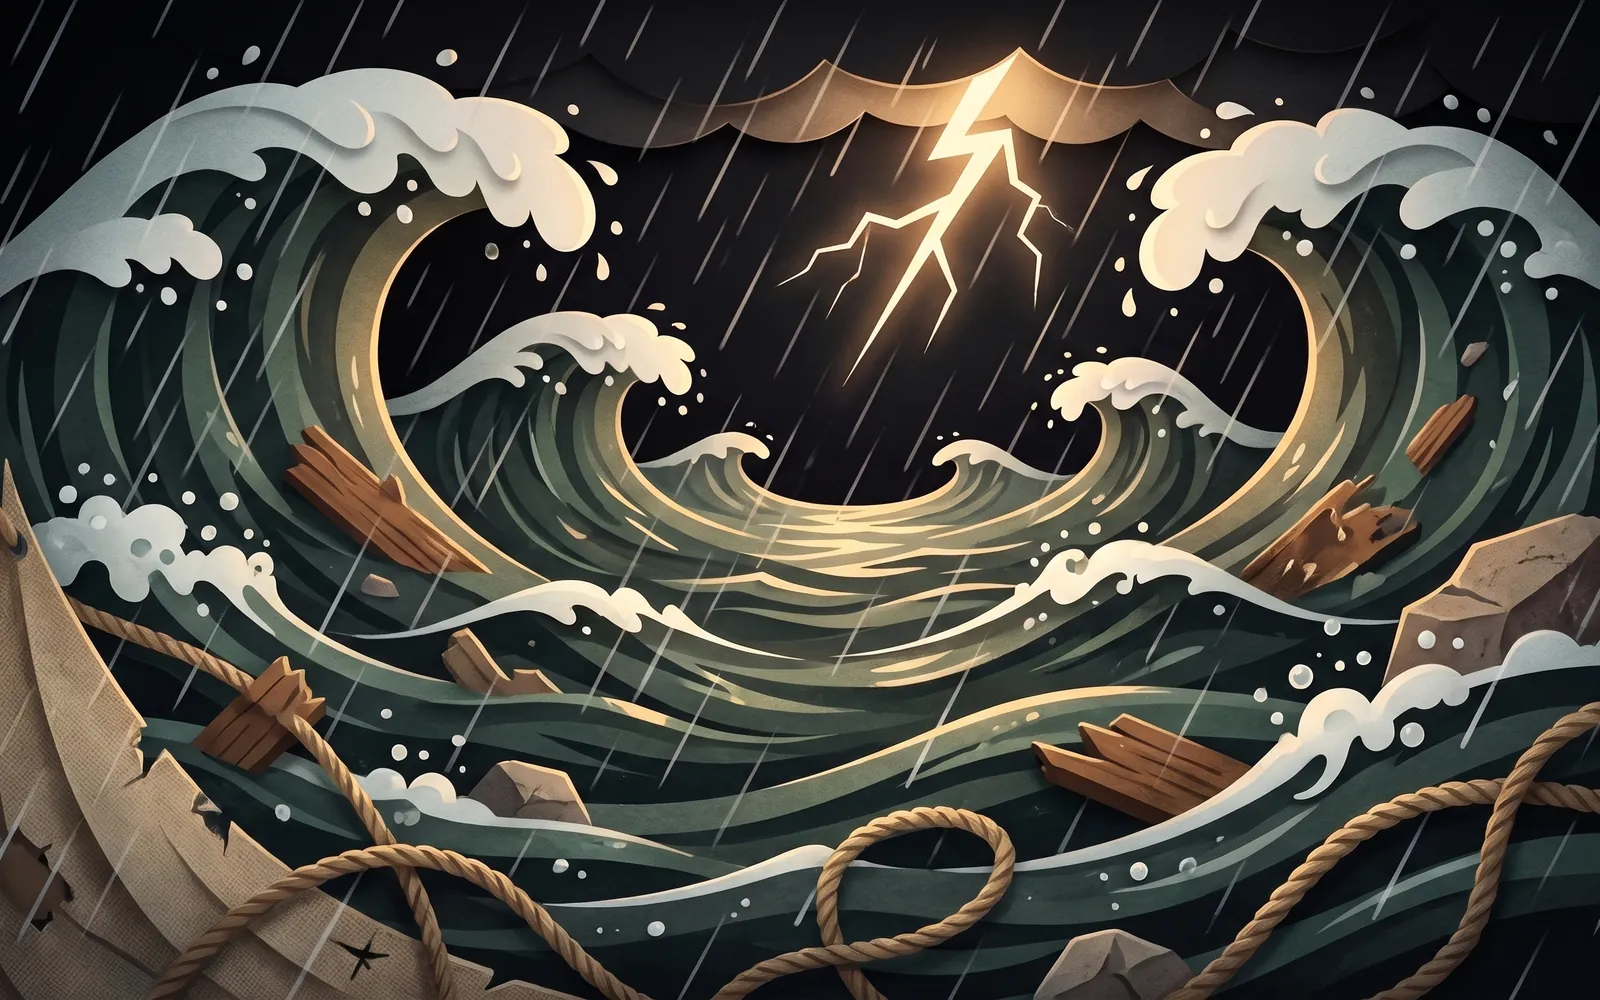
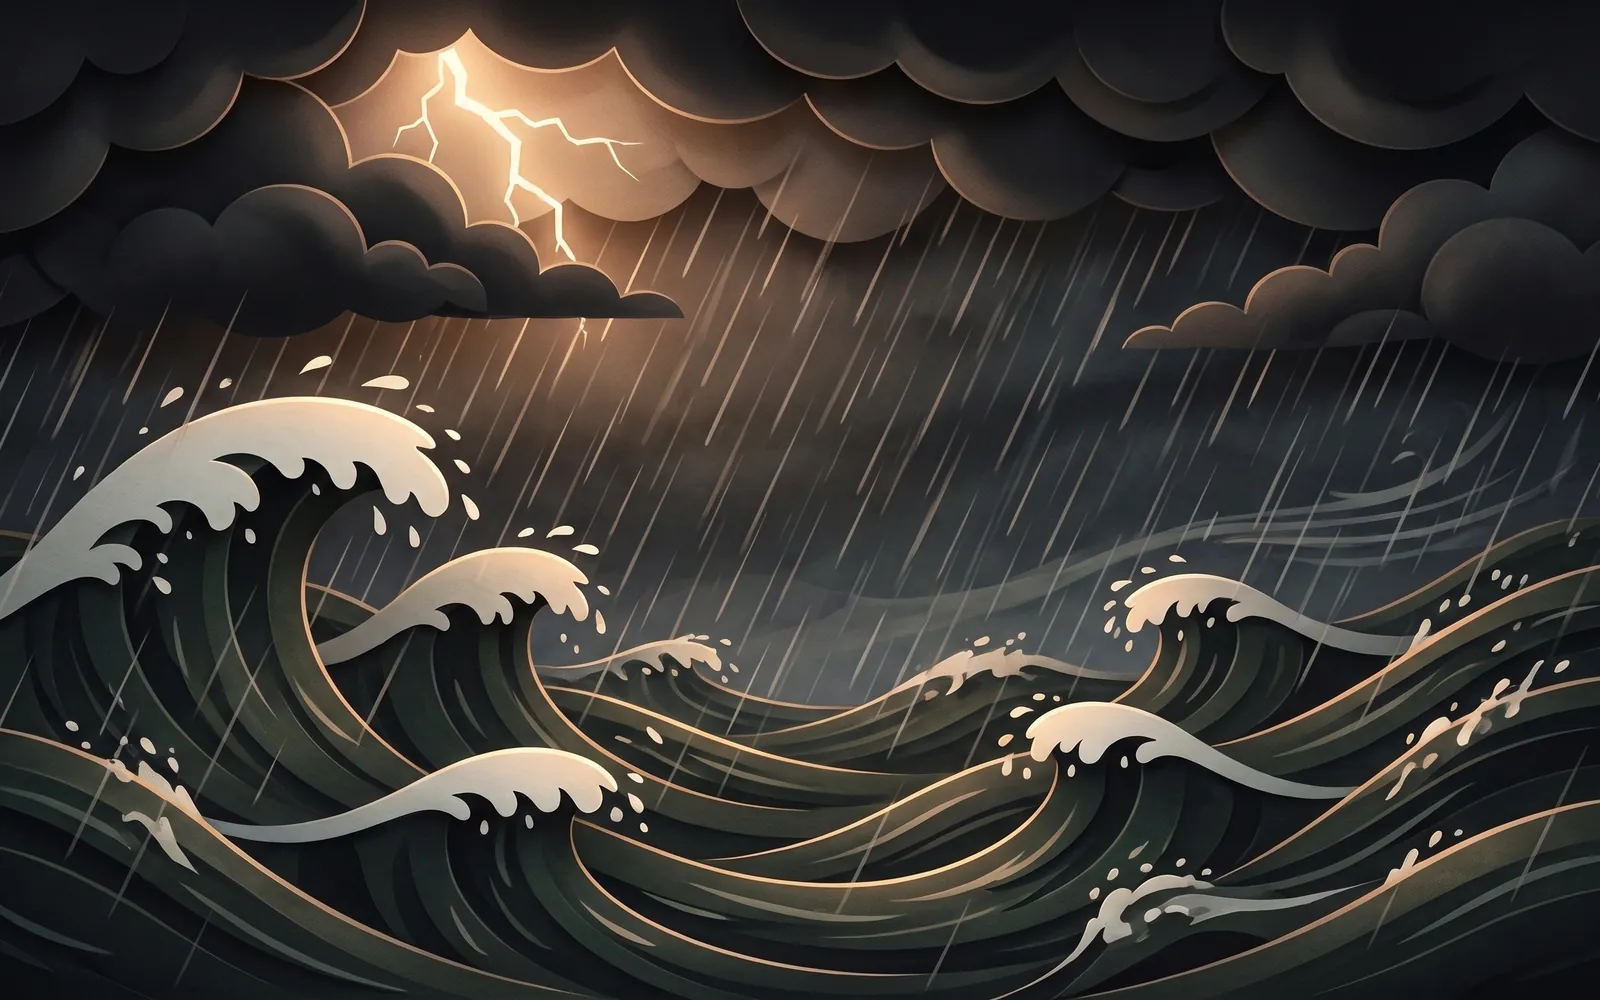
Storm page 3: one whole boat pitched on the wave, Jesus inside the hull, background without debris
The wild-night page drew its boat from two separately generated tilted
halves whose mast, bow and rail never lined up, with Jesus past the
stern. It now rotates the same whole two-part boat the other pages use
inside a positioning group, with the heave, rock and shake classes on
inner groups, and seats Jesus inside the hull. The background is
regenerated with only water, rain, cloud and lightning. Tilt cutouts
removed from the manifest and assets; face hotspots retuned.

diff --git a/src/scenes/storm.tsx b/src/scenes/storm.tsx
@@ -18,8 +18,8 @@ import asleepPeter from "../assets/scenes/storm/asleep/peter-row.webp";
 import asleepJohn from "../assets/scenes/storm/asleep/john-bail.webp";
 import afraidLayers from "../assets/scenes/storm/afraid/layers.json";
 import afraidBg from "../assets/scenes/storm/afraid/bg.webp";
-import afraidBoatBack from "../assets/scenes/storm/afraid/boat-back-tilt.webp";
-import afraidBoatHull from "../assets/scenes/storm/afraid/boat-hull-tilt.webp";
+import afraidBoatBack from "../assets/scenes/storm/afraid/boat-back.webp";
+import afraidBoatHull from "../assets/scenes/storm/afraid/boat-hull.webp";
 import afraidJesus from "../assets/scenes/storm/afraid/jesus-waking.webp";
 import afraidPeter from "../assets/scenes/storm/afraid/peter-afraid.webp";
 import afraidJohn from "../assets/scenes/storm/afraid/john-afraid.webp";
@@ -402,66 +402,74 @@ export function TheWildNight({ found }: SceneArtProps) {
       <Lightning delay={0.8} x={-120} y={30} s={0.55} />
       <Wave x={130} y={540} scale={0.72} cls="a-heave" delay={0} />
       <Wave x={890} y={565} scale={0.52} cls="a-heave" delay={0} flip />
-      <g className="a-heave">
-        <g className="a-rock">
-          <g className="a-shake">
-            <Layer
-              src={afraidBoatBack}
-              w={L["boat-back-tilt"].w}
-              h={L["boat-back-tilt"].h}
-              x={520}
-              y={535}
-              scale={0.8}
-            />
-            <Layer
-              src={afraidJohn}
-              w={L["john-afraid"].w}
-              h={L["john-afraid"].h}
-              x={370}
-              y={478}
-              scale={0.44}
-              className="a-breathe"
-            >
-              <Lids name="john-afraid" w={L["john-afraid"].w} h={L["john-afraid"].h} delay={1.9} />
-            </Layer>
-            <Layer
-              src={afraidPeter}
-              w={L["peter-afraid"].w}
-              h={L["peter-afraid"].h}
-              x={520}
-              y={478}
-              scale={0.44}
-              className="a-breathe"
-              delay={0.4}
-            >
-              <Lids
-                name="peter-afraid"
+      {/* the whole boat, pitched bow-down on the wave: one rotate on a positioning group, the motion classes inside it */}
+      <g transform="rotate(-7 500 600)">
+        <g className="a-heave">
+          <g className="a-rock">
+            <g className="a-shake">
+              <Layer
+                src={afraidBoatBack}
+                w={L["boat-back"].w}
+                h={L["boat-back"].h}
+                x={500}
+                y={540}
+                scale={0.62}
+              />
+              <Layer
+                src={afraidJohn}
+                w={L["john-afraid"].w}
+                h={L["john-afraid"].h}
+                x={370}
+                y={478}
+                scale={0.44}
+                className="a-breathe"
+              >
+                <Lids
+                  name="john-afraid"
+                  w={L["john-afraid"].w}
+                  h={L["john-afraid"].h}
+                  delay={1.9}
+                />
+              </Layer>
+              <Layer
+                src={afraidPeter}
                 w={L["peter-afraid"].w}
                 h={L["peter-afraid"].h}
-                delay={0.5}
+                x={520}
+                y={478}
+                scale={0.44}
+                className="a-breathe"
+                delay={0.4}
+              >
+                <Lids
+                  name="peter-afraid"
+                  w={L["peter-afraid"].w}
+                  h={L["peter-afraid"].h}
+                  delay={0.5}
+                />
+              </Layer>
+              <Layer
+                src={afraidJesus}
+                w={L["jesus-waking"].w}
+                h={L["jesus-waking"].h}
+                x={640}
+                y={482}
+                scale={0.44}
+                className="a-breathe-slow"
+                delay={1}
               />
-            </Layer>
-            <Layer
-              src={afraidJesus}
-              w={L["jesus-waking"].w}
-              h={L["jesus-waking"].h}
-              x={670}
-              y={478}
-              scale={0.44}
-              className="a-breathe-slow"
-              delay={1}
-            />
-            <Layer
-              src={afraidBoatHull}
-              w={L["boat-hull-tilt"].w}
-              h={L["boat-hull-tilt"].h}
-              x={500}
-              y={600}
-              scale={0.62}
-            />
+              <Layer
+                src={afraidBoatHull}
+                w={L["boat-hull"].w}
+                h={L["boat-hull"].h}
+                x={500}
+                y={600}
+                scale={0.62}
+              />
+            </g>
           </g>
+          <Wave x={460} y={645} scale={0.5} cls="" delay={0} />
         </g>
-        <Wave x={460} y={645} scale={0.5} cls="" delay={0} />
       </g>
       <Rain count={120} seed={7} />
       {found.includes("lightning") && <Sparkle x={240} y={110} s={2} />}

diff --git a/src/data/stories/storm.ts b/src/data/stories/storm.ts
@@ -125,8 +125,8 @@ export const storm: Story = {
         },
         {
           id: "peter",
-          x: 52,
-          y: 44,
+          x: 46,
+          y: 46,
           size: 20,
           label: "Peter",
           reward: "Peter had fished this lake all his life. He had never been this frightened.",
@@ -134,8 +134,8 @@ export const storm: Story = {
         },
         {
           id: "jesus",
-          x: 67,
-          y: 44,
+          x: 61,
+          y: 46,
           size: 20,
           label: "Jesus waking",
           reward: "He woke calmly, as if he already knew what he would do.",

diff --git a/docs/evidence/2026-09-18-storm-story/record.md b/docs/evidence/2026-09-18-storm-story/record.md
@@ -192,3 +192,26 @@ the main boat; houses more realistic; boat bigger relative to the men."
 
 Render `storm-evening.png` and the two stills replaced. Calls this round:
 2. 155 tests, `tsc -b` clean, 38 scenes motion-clean.
+
+## Review round 4 (owner, 2026-09-19): page 3
+
+"Jesus not properly situated in the boat; items in the image not
+realistic; the mast not properly situated."
+
+- The page had its own separately generated tilted halves
+  (`boat-back-tilt`, `boat-hull-tilt`), whose mast, bow post and rail
+  never lined up with each other, and Jesus sat past the near hull's
+  stern. Both tilt cutouts are dropped from the manifest and the assets.
+  The page now uses the same whole two-part boat as the other pages (calm
+  far side and hull, copied into the raw folder) inside one positioning
+  group `rotate(-7 500 600)`, with the heave, rock and shake classes on
+  groups inside it (constraint 1 holds; `check:motion` 38 clean). Jesus
+  seated at x 640 inside the hull.
+- Background regenerated with "NO wood, NO planks, NO rope, NO debris":
+  water, rain, volumetric cloud and one painted fork of lightning
+  (`afraid-bg-v2.json`, 104 KB). Scene 372 KB.
+- Peter and Jesus hotspots retuned to the faces (46 %, 46 % and 61 %,
+  46 %).
+
+Render `storm-afraid.png`, stills `afraid-phone.png` and
+`afraid-hotspot-tablet.png` replaced. Calls this round: 1.
